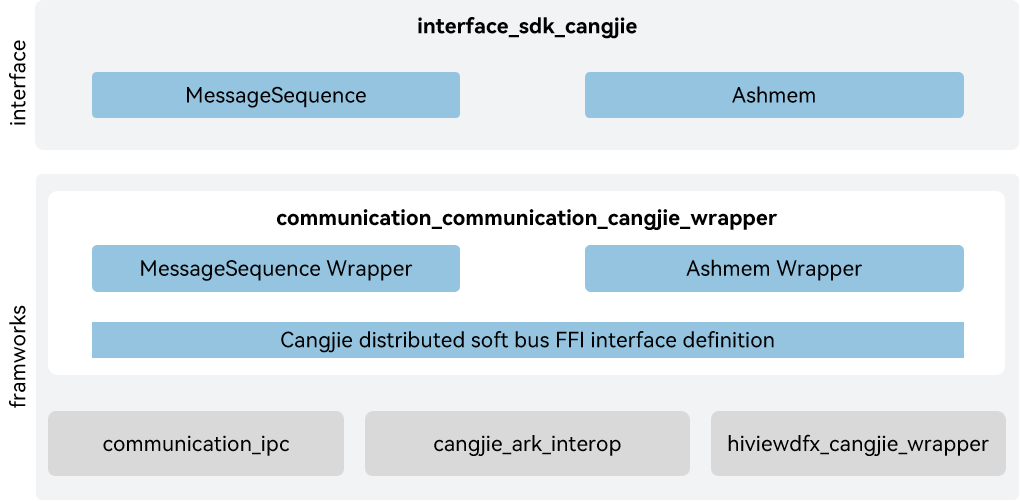
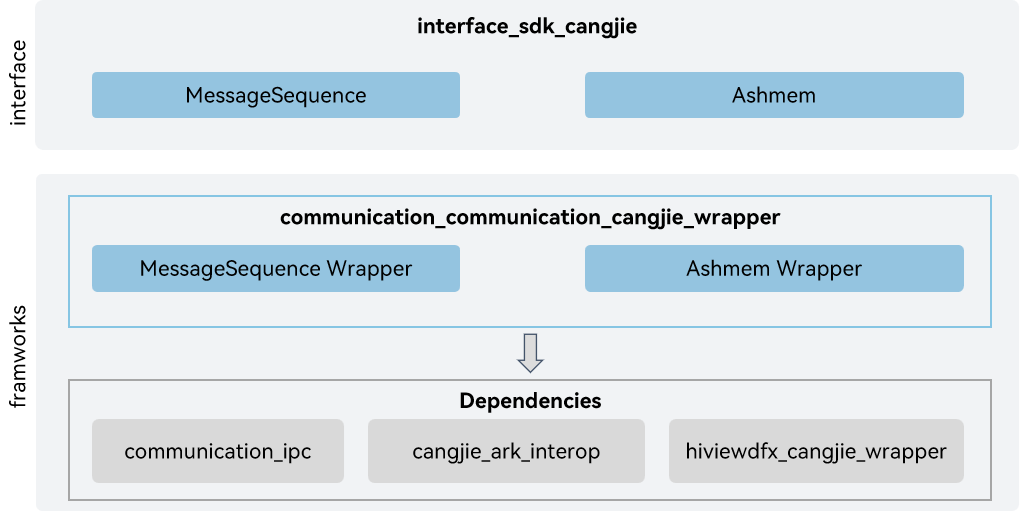
update README

diff --git a/README_zh.md b/README_zh.md
@@ -2,7 +2,7 @@
 
 ## 简介
 
-分布式软总线子系统旨在为OpenHarmony系统提供跨进程通信相关的能力。当前开放的分布式软总线仓颉接口仅支持standard设备。
+在OpenHarmnoy平台上，分布式软总线仓颉封装为开发者提供了使用仓颉语言进行应用开发时所需的跨进程通信相关的能力。当前开放的分布式软总线仓颉接口仅支持standard设备。
 
 ## 系统架构
 
@@ -21,7 +21,6 @@
 
 - 消息序列封装：仓颉消息序列的实现封装，提供消息序列能力。
 - 匿名共享内存对象封装：仓颉匿名共享内存对象的实现封装，提供匿名共享内存对象能力。
-- 仓颉分布式软总线FFI接口定义：负责定义C语言互操作仓颉接口，用于实现仓颉分布式软总线能力。
 
 架构图中的依赖部件引入说明：
 

diff --git a/README.md b/README.md
@@ -21,7 +21,6 @@ Framework:
 
 - MessageSequence wrapper: Implementation encapsulation of Cangjie MessageSequence, providing MessageSequence capabilities.
 - Ashmem wrapper: Implementation encapsulation of Cangjie Ashmem, providing Ashmem capabilities.
-- Cangjie distributed soft bus FFI interface definition: Responsible for defining the C Language interoperable Cangjie interface, which is used to realize Cangjie's distributed soft bus capabilities.
 
 - Explanation of Dependencies in the Architecture Diagram:
 
